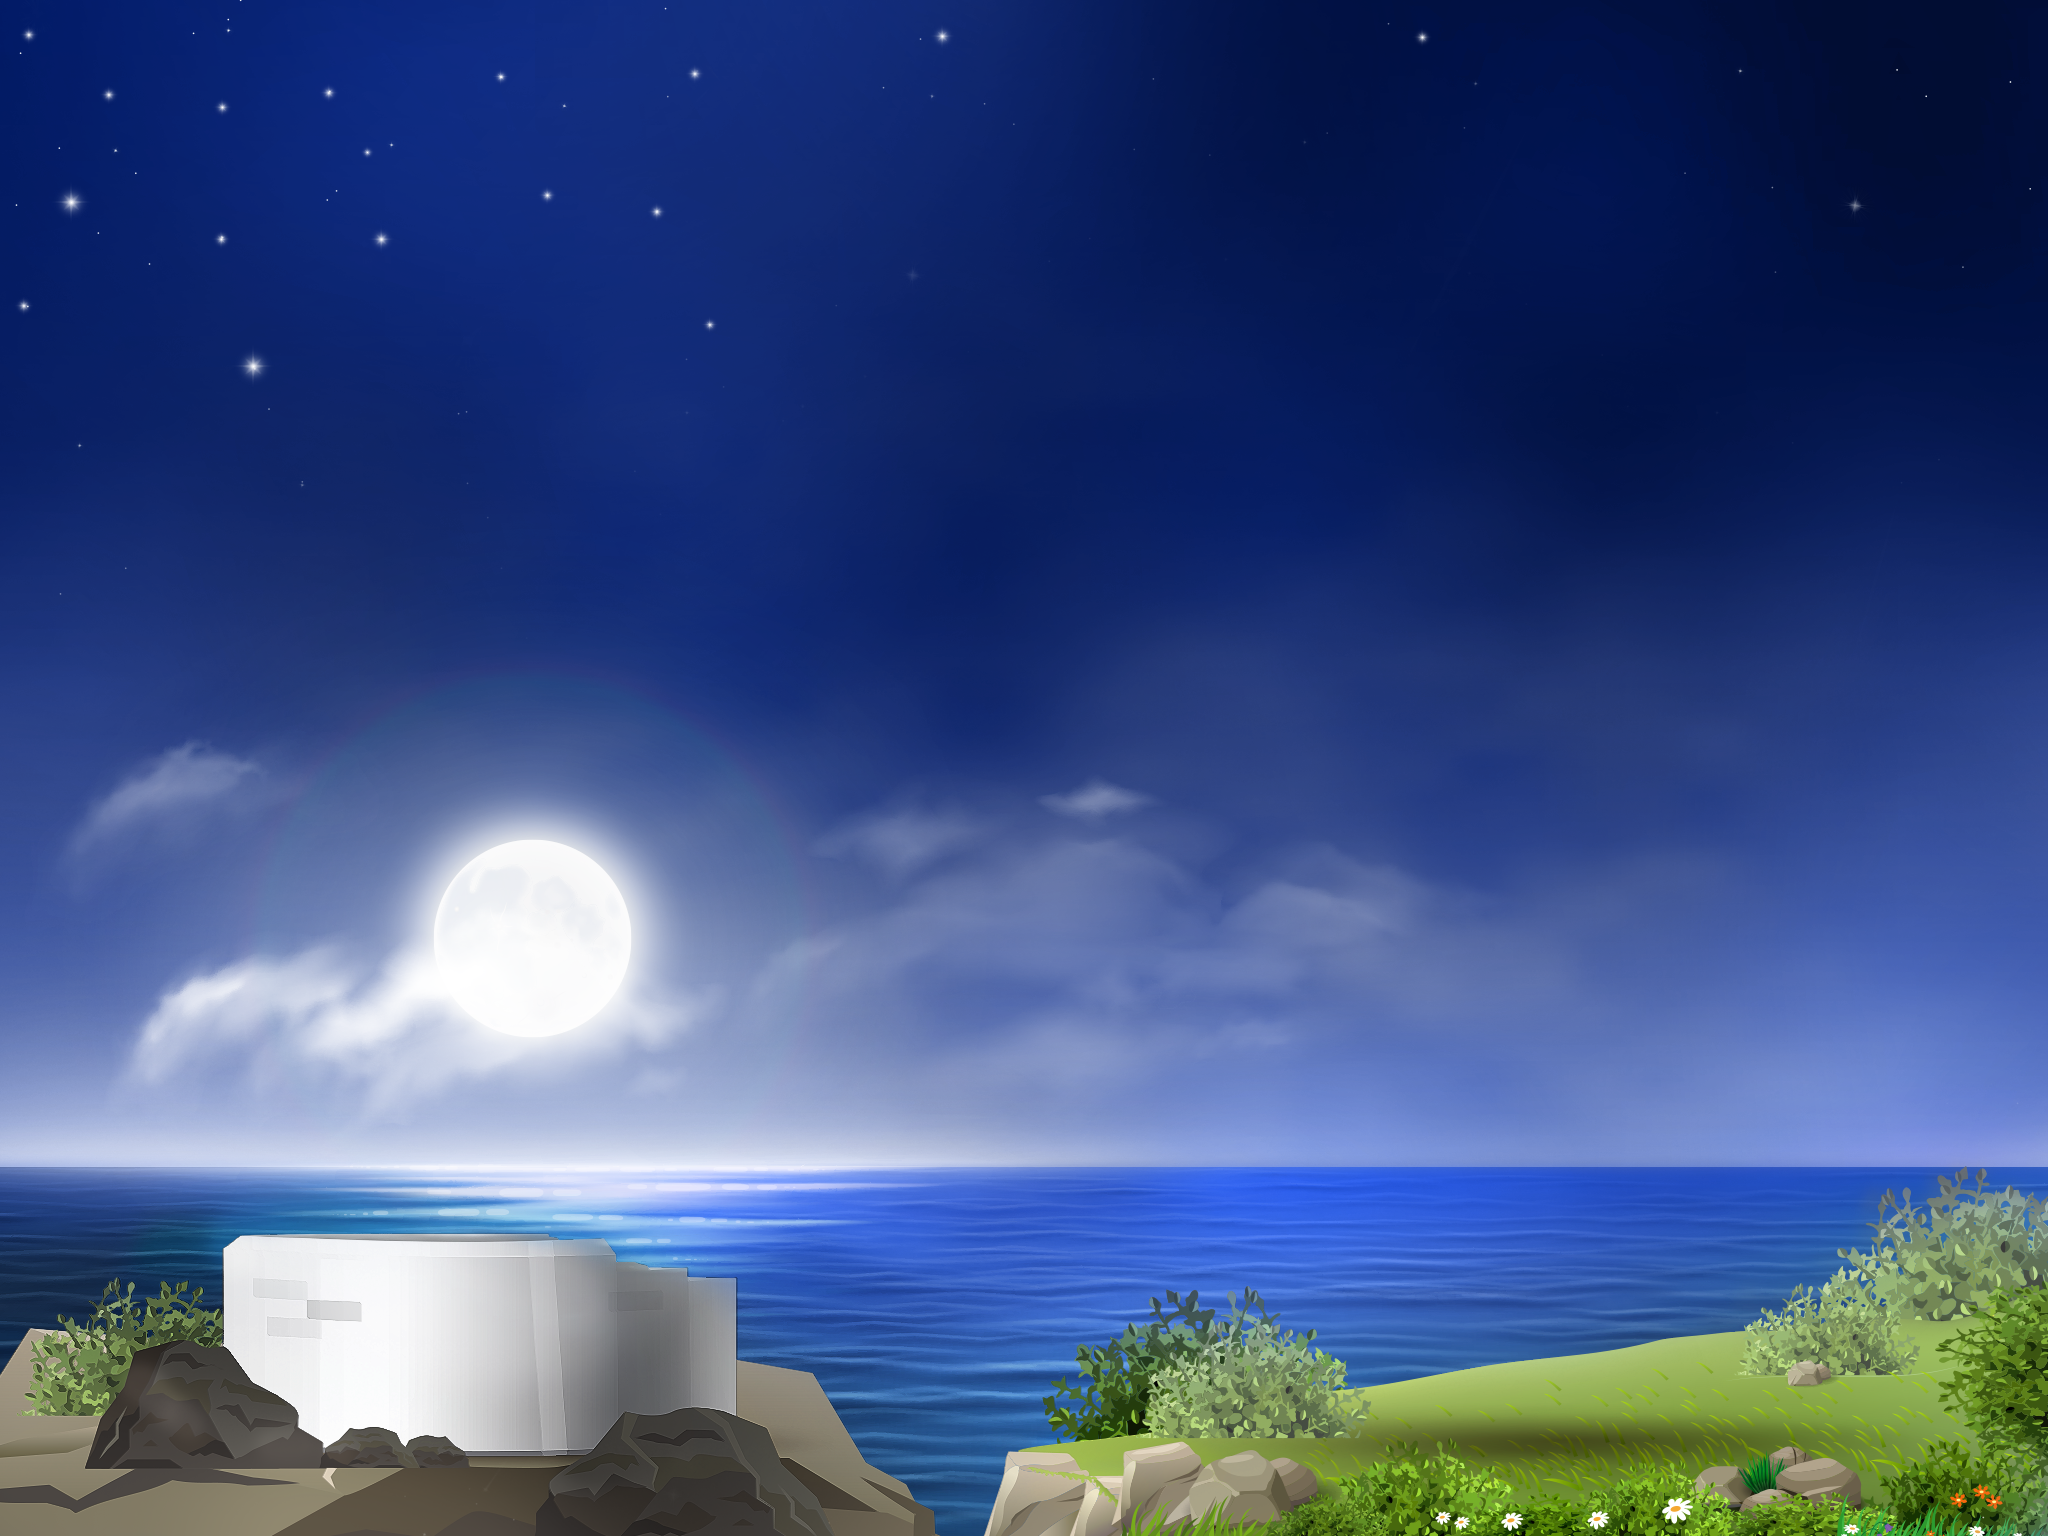
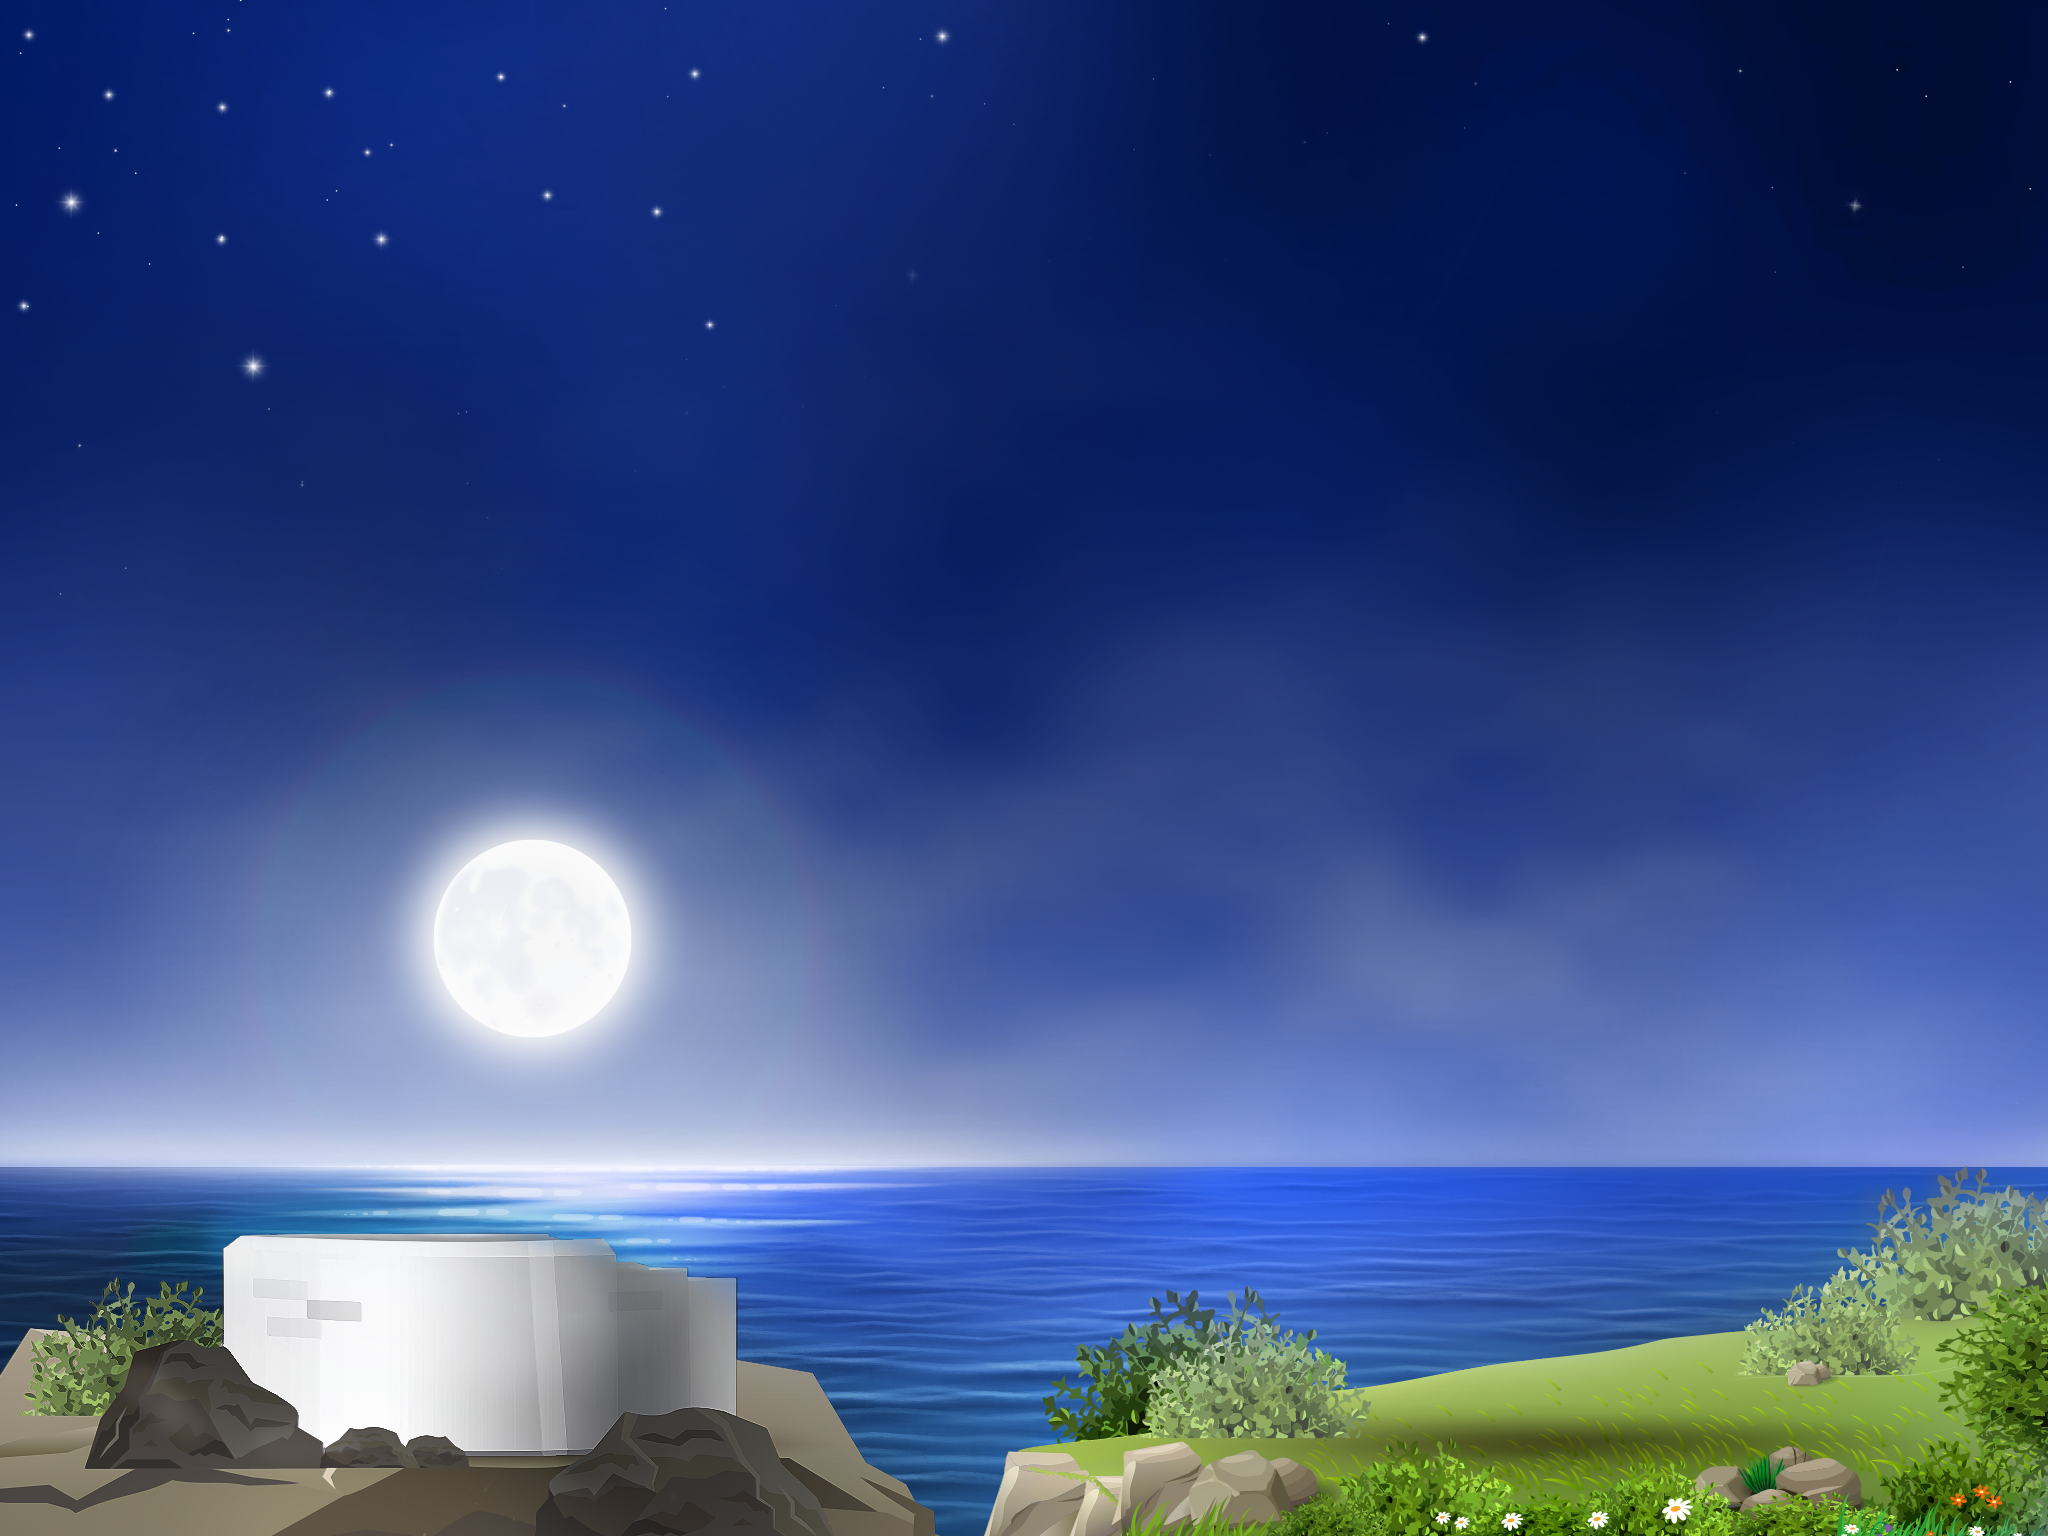
Исправлены облака

diff --git a/index.html b/index.html
@@ -37,7 +37,6 @@
 					<img src="img/cloud_2.png" alt="" class="cloudRun">
 					<img src="img/cloud_3.png" alt="" class="cloudRun">
 					<img src="img/cloud_4.png" alt="" class="cloudRun">
-					<img src="img/cloud_5.png" alt="" class="cloudRun">
 				</div>
 				<div class="block_text_left">Исследование <br>биоэквивалентности</div>
 				<div class="block_lighthouse_text_order flex">
@@ -68,10 +67,5 @@
 				</div>
 			</div>
 		</div>
-		<script>
-			window.onload = function () {
-			  document.body.classList.add('loaded');
-			}
-		</script>
     </body>
 </html>
